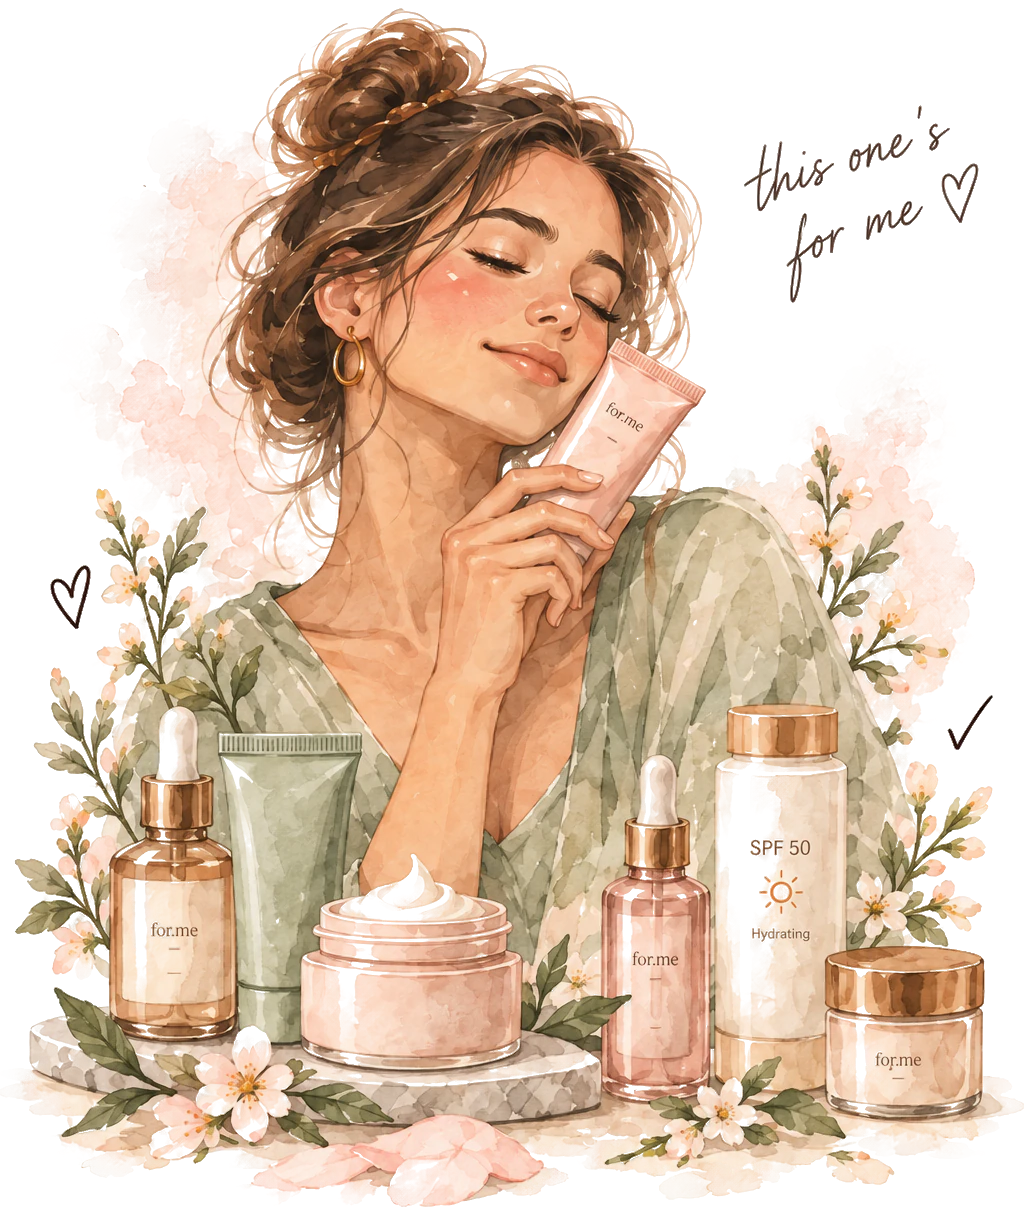
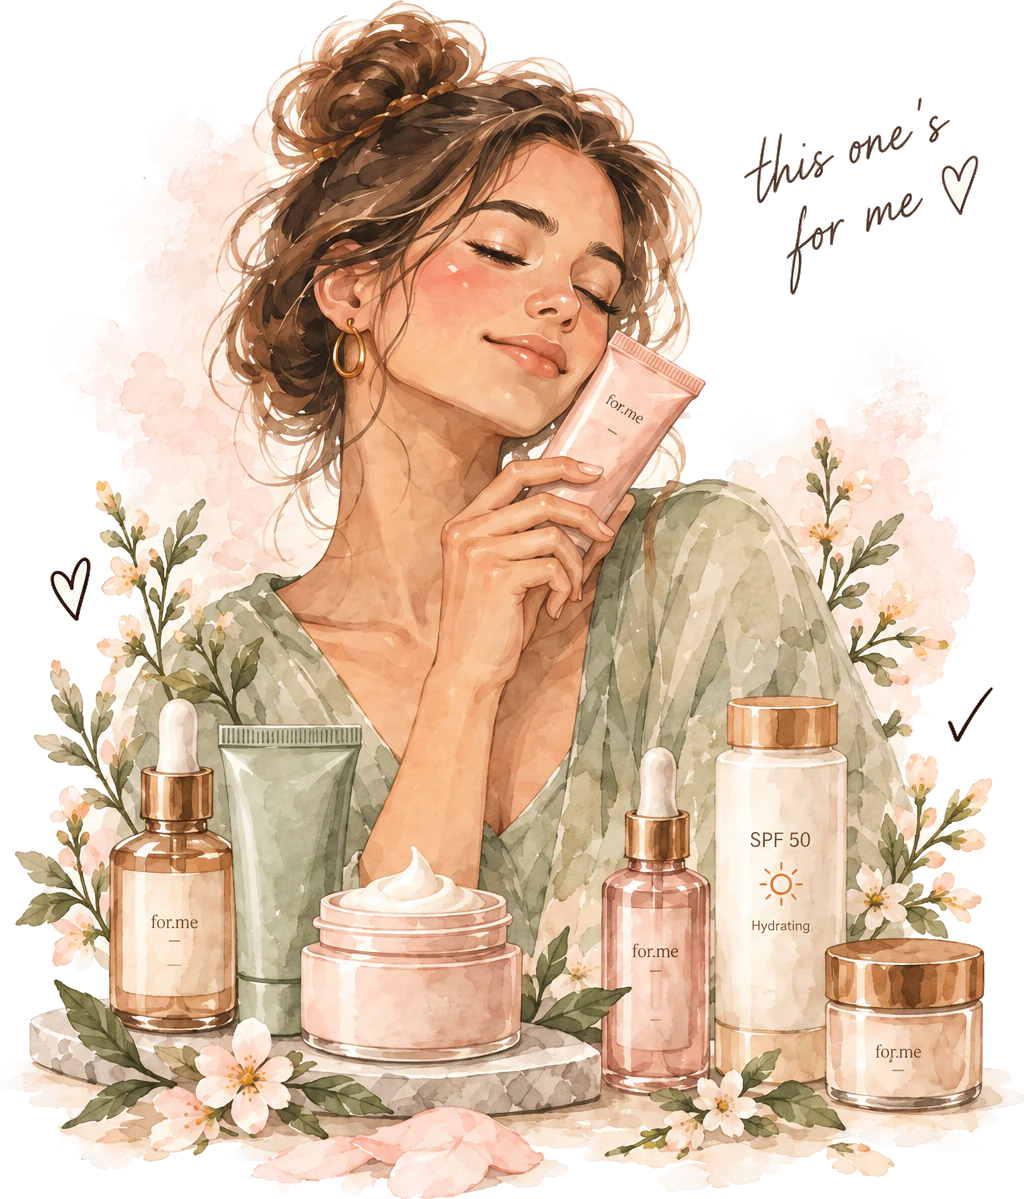
feat(art): the new watercolor set across Home, Saved, Profile, the ingredient page and the intro
Ten pictures from new-watercolor/ replace the ones in the app: Home's Scan
and Find cards, the Profile avatar, Saved's three empty states, the
ingredient page's flask, and the three intro heroes.

Each is trimmed to its art (the originals carry 5-27% empty transparent
margin, which would have drawn them smaller than the pictures they replace)
and shipped as WebP with transparency; the small card and avatar pictures
are brought down to 600px on the long edge. Saved's empty-state aspect
ratios and the flask's slot follow the new proportions.

diff --git a/app/ingredient/[inci].tsx b/app/ingredient/[inci].tsx
@@ -405,14 +405,14 @@ function IngredientDetail({ inci, productId }: { inci: string; productId?: strin
               <Text className={`text-[12.5px] font-medium ${meta.ink}`}>{meta.label}</Text>
             </View>
           </View>
-          {/* design-watercolor/ingredient image.png — a flask + dropper
+          {/* new-watercolor/ingredient_transparent.png — a flask + dropper
               bottle scene, wider than the old single-flask icon, so the
-              slot is sized to its own aspect ratio (1400x1001, cropped to
+              slot is sized to its own aspect ratio (1400x915, cropped to
               content) rather than the old icon's square. */}
           {largeText ? null : (
             <Image
-              source={require("@/assets/illustrations/flask-with-serum.png")}
-              style={{ width: 168, height: 120 }}
+              source={require("@/assets/illustrations/flask-with-serum.webp")}
+              style={{ width: 168, height: 110 }}
               contentFit="contain"
               transition={120}
               accessibilityLabel=""

diff --git a/app/(tabs)/saved.tsx b/app/(tabs)/saved.tsx
@@ -833,9 +833,9 @@ function UnknownRow({ entry, bar, onRemove }: { entry: HistoryEntry; bar: string
 // One picture for each tab's empty state, with its own proportions (width / height)
 // so `contain` never letterboxes it.
 const EMPTY_ART = {
-  saved: { source: require("@/assets/illustrations/saved-empty-shelf.png"), aspect: 1400 / 810 },
-  history: { source: require("@/assets/illustrations/history-empty.png"), aspect: 1400 / 927 },
-  ingredients: { source: require("@/assets/illustrations/ingredients-empty.png"), aspect: 1400 / 855 },
+  saved: { source: require("@/assets/illustrations/saved-empty-shelf.webp"), aspect: 1400 / 779 },
+  history: { source: require("@/assets/illustrations/history-empty.webp"), aspect: 1400 / 891 },
+  ingredients: { source: require("@/assets/illustrations/ingredients-empty.webp"), aspect: 1400 / 884 },
 } as const;
 
 type EmptyCopy = { title: string; body: string; actionLabel: string; actionHref: "/scanner" | "/browse" };

diff --git a/app/(tabs)/index.tsx b/app/(tabs)/index.tsx
@@ -15,8 +15,8 @@ import { CANVAS, CARD_SHADOW, INK, MUTED, SELECTED, SPACE, TYPE } from "@/lib/to
 // The two cards' watercolors, on transparent ground: a hand holding a tube inside
 // a scanner's frame, and two hands holding a serum and a pump bottle (their empty
 // margins trimmed, and brought down to 500px from 1254px).
-const SCAN_ART = require("@/assets/illustrations/home-scan.png");
-const FIND_ART = require("@/assets/illustrations/home-find.png");
+const SCAN_ART = require("@/assets/illustrations/home-scan.webp");
+const FIND_ART = require("@/assets/illustrations/home-find.webp");
 // The gap between the two cards.
 const ACTION_CARD_GAP = 12;
 // The least room the picture keeps. The cards are square, and grow taller rather

diff --git a/app/(tabs)/profile.tsx b/app/(tabs)/profile.tsx
@@ -17,7 +17,7 @@ import { haptic } from "@/lib/haptics";
 import { noteProfileErased } from "@/lib/erase-notice";
 
 const AVATAR = 120;
-const AVATAR_ART = require("@/assets/illustrations/avatar-empty.png");
+const AVATAR_ART = require("@/assets/illustrations/avatar-empty.webp");
 
 /**
  * Profile — who you are to the app, and the way to everything about you: your
